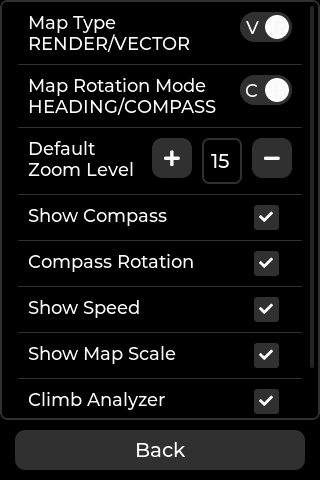
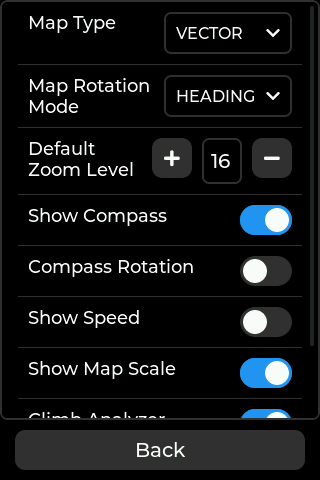
feat(gui): map type and rotation as dropdowns, accent color on switches

diff --git a/lib/gui/src/mapSettingsScr.cpp b/lib/gui/src/mapSettingsScr.cpp
@@ -67,7 +67,7 @@ static void mapSettingsEvents(lv_event_t *event)
 
     if (obj == mapType)
     {
-        mapSet.vectorMap = lv_obj_has_state(obj, LV_STATE_CHECKED);
+        mapSet.vectorMap = lv_dropdown_get_selected(obj) == 1;
         minZoom = 6;
         maxZoom = 17;
         lv_spinbox_set_range(zoomLevel, minZoom, maxZoom);
@@ -79,7 +79,7 @@ static void mapSettingsEvents(lv_event_t *event)
 
     if (obj == mapSwitch)
     {
-        mapSet.mapRotationComp = lv_obj_has_state(obj, LV_STATE_CHECKED);
+        mapSet.mapRotationComp = lv_dropdown_get_selected(obj) == 1;
         cfg.saveBool(PKEYS::KMAP_ROT_MODE, mapSet.mapRotationComp);
     }
 
@@ -156,34 +156,46 @@ void createMapSettingsScr()
     lv_obj_set_size(mapSettingsOptions, TFT_WIDTH, TFT_HEIGHT - 60);
     lv_obj_t *label;
     // Map Type
-    list = lv_list_add_button(mapSettingsOptions, NULL, "Map Type\nRENDER/VECTOR");
+    list = lv_list_add_button(mapSettingsOptions, NULL, "Map Type");
     lv_obj_remove_flag(list, LV_OBJ_FLAG_CLICKABLE);
     lv_obj_set_align(list, LV_ALIGN_LEFT_MID);
     lv_obj_set_style_text_font(list, fontOptions, 0);
-    mapType = lv_switch_create(list);
-    label = lv_label_create(mapType);
-    lv_label_set_text_static(label, "V   R");
-    lv_obj_center(label);
-    if (mapSet.vectorMap)
-        lv_obj_add_state(mapType, LV_STATE_CHECKED);
-    else
-        lv_obj_remove_state(mapType, LV_STATE_CHECKED);
+    mapType = lv_dropdown_create(list);
+    lv_dropdown_set_options(mapType, "PNG\nVECTOR");
+    lv_dropdown_set_selected(mapType, mapSet.vectorMap ? 1 : 0);
+    lv_obj_t *item = lv_dropdown_get_list(mapType);
+    lv_obj_set_style_bg_color(item, lv_color_hex(objectColor), LV_PART_SELECTED | LV_STATE_CHECKED);
     lv_obj_align_to(mapType, list, LV_ALIGN_RIGHT_MID, 0, 0);
+#if defined(LARGE_SCREEN) && !defined(EXTRA_LARGE_SCREEN) && !defined(T4_S3)
+    lv_obj_set_width(mapType, TFT_WIDTH * 2 / 5);
+    lv_obj_set_style_text_font(mapType, fontMedium, 0);
+    lv_obj_set_style_text_font(item, fontMedium, 0);
+#else
+    lv_obj_set_width(mapType, TFT_WIDTH / 3);
+#endif
     lv_obj_add_event_cb(mapType, mapSettingsEvents, LV_EVENT_VALUE_CHANGED, NULL);
     // Map Rotation
-    list = lv_list_add_button(mapSettingsOptions, NULL, "Map Rotation Mode\nHEADING/COMPASS");
+#if defined(LARGE_SCREEN) && !defined(EXTRA_LARGE_SCREEN) && !defined(T4_S3)
+    list = lv_list_add_button(mapSettingsOptions, NULL, "Map Rotation\nMode");
+#else
+    list = lv_list_add_button(mapSettingsOptions, NULL, "Map Rotation Mode");
+#endif
     lv_obj_remove_flag(list, LV_OBJ_FLAG_CLICKABLE);
     lv_obj_set_align(list, LV_ALIGN_LEFT_MID);
     lv_obj_set_style_text_font(list, fontOptions, 0);
-    mapSwitch = lv_switch_create(list);
-    label = lv_label_create(mapSwitch);
-    lv_label_set_text_static(label, "C   H");
-    lv_obj_center(label);
-    if (mapSet.mapRotationComp)
-        lv_obj_add_state(mapSwitch, LV_STATE_CHECKED);
-    else
-        lv_obj_remove_state(mapSwitch, LV_STATE_CHECKED);
+    mapSwitch = lv_dropdown_create(list);
+    lv_dropdown_set_options(mapSwitch, "HEADING\nCOMPASS");
+    lv_dropdown_set_selected(mapSwitch, mapSet.mapRotationComp ? 1 : 0);
+    item = lv_dropdown_get_list(mapSwitch);
+    lv_obj_set_style_bg_color(item, lv_color_hex(objectColor), LV_PART_SELECTED | LV_STATE_CHECKED);
     lv_obj_align_to(mapSwitch, list, LV_ALIGN_RIGHT_MID, 0, 0);
+#if defined(LARGE_SCREEN) && !defined(EXTRA_LARGE_SCREEN) && !defined(T4_S3)
+    lv_obj_set_width(mapSwitch, TFT_WIDTH * 2 / 5);
+    lv_obj_set_style_text_font(mapSwitch, fontMedium, 0);
+    lv_obj_set_style_text_font(item, fontMedium, 0);
+#else
+    lv_obj_set_width(mapSwitch, TFT_WIDTH / 3);
+#endif
     lv_obj_add_event_cb(mapSwitch, mapSettingsEvents, LV_EVENT_VALUE_CHANGED, NULL);
     // Default zoom level
     list = lv_list_add_button(mapSettingsOptions, NULL, "Default\nZoom Level");
@@ -214,9 +226,8 @@ void createMapSettingsScr()
     lv_obj_set_style_text_font(list, fontOptions, 0);
     lv_obj_remove_flag(list, LV_OBJ_FLAG_CLICKABLE);
     lv_obj_set_align(list, LV_ALIGN_LEFT_MID);
-    checkCompass = lv_checkbox_create(list);
-    lv_obj_align_to(checkCompass, list, LV_ALIGN_RIGHT_MID, 0, 0);
-    lv_checkbox_set_text(checkCompass, " ");
+    checkCompass = lv_switch_create(list);
+    lv_obj_align_to(checkCompass, list, LV_ALIGN_OUT_RIGHT_MID, 0, 0);
     if (mapSet.showMapCompass)
         lv_obj_add_state(checkCompass, LV_STATE_CHECKED);
     else
@@ -227,9 +238,8 @@ void createMapSettingsScr()
     lv_obj_set_style_text_font(list, fontOptions, 0);
     lv_obj_remove_flag(list, LV_OBJ_FLAG_CLICKABLE);
     lv_obj_set_align(list, LV_ALIGN_LEFT_MID);
-    checkCompassRot = lv_checkbox_create(list);
-    lv_obj_align_to(checkCompassRot, list, LV_ALIGN_RIGHT_MID, 0, 0);
-    lv_checkbox_set_text(checkCompassRot, " ");
+    checkCompassRot = lv_switch_create(list);
+    lv_obj_align_to(checkCompassRot, list, LV_ALIGN_OUT_RIGHT_MID, 0, 0);
     if (mapSet.compassRotation)
         lv_obj_add_state(checkCompassRot, LV_STATE_CHECKED);
     else
@@ -240,9 +250,8 @@ void createMapSettingsScr()
     lv_obj_set_style_text_font(list, fontOptions, 0);
     lv_obj_remove_flag(list, LV_OBJ_FLAG_CLICKABLE);
     lv_obj_set_align(list, LV_ALIGN_LEFT_MID);
-    checkSpeed = lv_checkbox_create(list);
-    lv_obj_align_to(checkSpeed, list, LV_ALIGN_RIGHT_MID, 0, 0);
-    lv_checkbox_set_text(checkSpeed, " ");
+    checkSpeed = lv_switch_create(list);
+    lv_obj_align_to(checkSpeed, list, LV_ALIGN_OUT_RIGHT_MID, 0, 0);
     if (mapSet.showMapSpeed)
         lv_obj_add_state(checkSpeed, LV_STATE_CHECKED);
     else
@@ -253,9 +262,8 @@ void createMapSettingsScr()
     lv_obj_set_style_text_font(list, fontOptions, 0);
     lv_obj_remove_flag(list, LV_OBJ_FLAG_CLICKABLE);
     lv_obj_set_align(list, LV_ALIGN_LEFT_MID);
-    checkScale = lv_checkbox_create(list);
-    lv_obj_align_to(checkScale, list, LV_ALIGN_RIGHT_MID, 0, 0);
-    lv_checkbox_set_text(checkScale, " ");
+    checkScale = lv_switch_create(list);
+    lv_obj_align_to(checkScale, list, LV_ALIGN_OUT_RIGHT_MID, 0, 0);
     if (mapSet.showMapScale)
         lv_obj_add_state(checkScale, LV_STATE_CHECKED);
     else
@@ -266,9 +274,8 @@ void createMapSettingsScr()
     lv_obj_set_style_text_font(list, fontOptions, 0);
     lv_obj_remove_flag(list, LV_OBJ_FLAG_CLICKABLE);
     lv_obj_set_align(list, LV_ALIGN_LEFT_MID);
-    checkClimb = lv_checkbox_create(list);
-    lv_obj_align_to(checkClimb, list, LV_ALIGN_RIGHT_MID, 0, 0);
-    lv_checkbox_set_text(checkClimb, " ");
+    checkClimb = lv_switch_create(list);
+    lv_obj_align_to(checkClimb, list, LV_ALIGN_OUT_RIGHT_MID, 0, 0);
     if (mapSet.showClimb)
         lv_obj_add_state(checkClimb, LV_STATE_CHECKED);
     else
@@ -279,9 +286,8 @@ void createMapSettingsScr()
     lv_obj_set_style_text_font(list3DMap, fontOptions, 0);
     lv_obj_remove_flag(list3DMap, LV_OBJ_FLAG_CLICKABLE);
     lv_obj_set_align(list3DMap, LV_ALIGN_LEFT_MID);
-    check3DMap = lv_checkbox_create(list3DMap);
-    lv_obj_align_to(check3DMap, list3DMap, LV_ALIGN_RIGHT_MID, 0, 0);
-    lv_checkbox_set_text(check3DMap, " ");
+    check3DMap = lv_switch_create(list3DMap);
+    lv_obj_align_to(check3DMap, list3DMap, LV_ALIGN_OUT_RIGHT_MID, 0, 0);
     if (mapSet.map3D)
         lv_obj_add_state(check3DMap, LV_STATE_CHECKED);
     else

diff --git a/lib/lvgl/src/lvglSetup.cpp b/lib/lvgl/src/lvglSetup.cpp
@@ -33,7 +33,7 @@ lv_obj_t *searchSatScreen; /**< Search Satellite Screen object. */
 lv_obj_t *splashScr;       /**< Splash Screen object. */
 lv_style_t styleThemeBkg;  /**< Main background style object. */
 lv_style_t styleObjectBkg; /**< Object background style. */
-lv_style_t styleObjectSel; /**< Object selected style. */
+lv_style_t styleAccent;    /**< Accent color style for checked states. */
 
 lv_group_t *scrGroup;   /**< LVGL group for screen. */
 lv_group_t *keyGroup;   /**< LVGL group for GPIO keys. */
@@ -429,12 +429,8 @@ void applyModifyTheme(lv_theme_t *th, lv_obj_t *obj)
         if (lv_obj_check_type(obj, &lv_switch_class))
         {
             lv_obj_add_style(obj, &styleObjectBkg, 0);
-            lv_obj_add_style(obj, &styleObjectBkg, LV_PART_INDICATOR | LV_STATE_CHECKED);
-        }
-        if (lv_obj_check_type(obj, &lv_checkbox_class))
-        {
-            lv_obj_add_style(obj, &styleThemeBkg, LV_PART_INDICATOR | LV_STATE_DEFAULT);
-            lv_obj_add_style(obj, &styleObjectBkg, LV_PART_INDICATOR | LV_STATE_CHECKED);
+            lv_obj_add_style(obj, &styleAccent, LV_PART_MAIN | LV_STATE_CHECKED);
+            lv_obj_add_style(obj, &styleAccent, LV_PART_INDICATOR | LV_STATE_CHECKED);
         }
     }
 }
@@ -442,7 +438,7 @@ void applyModifyTheme(lv_theme_t *th, lv_obj_t *obj)
 /**
  * @brief Apply Custom Dark theme styles to the given object.
  *
- * @details Assigns custom styles to various LVGL objects (button, switch, checkbox, etc.)
+ * @details Assigns custom styles to various LVGL objects (button, switch, etc.)
  *
  * @param th  Pointer to the LVGL theme (unused).
  * @param obj Pointer to the LVGL object to style.
@@ -456,8 +452,9 @@ void modifyTheme()
     lv_style_init(&styleObjectBkg);
     lv_style_set_bg_color(&styleObjectBkg, lv_color_hex(objectColor));
     lv_style_set_border_color(&styleObjectBkg, lv_color_hex(objectColor));
-    lv_style_init(&styleObjectSel);
-    lv_style_set_bg_color(&styleObjectSel, lv_color_hex(0x757575));
+    lv_style_init(&styleAccent);
+    lv_style_set_bg_color(&styleAccent, lv_color_hex(accentColor));
+    lv_style_set_border_color(&styleAccent, lv_color_hex(accentColor));
     
     /*Initialize the new theme from the current theme*/
     lv_theme_t *th_act = lv_display_get_theme(NULL);

diff --git a/lib/gui/src/mapSettingsScr.hpp b/lib/gui/src/mapSettingsScr.hpp
@@ -10,6 +10,7 @@
 
 #include "globalGuiDef.h"
 #include "lvglFuncs.hpp"
+#include "lvglSetup.hpp"
 #include "settings.hpp"
 #include "maps.hpp"
 
@@ -21,13 +22,12 @@ static lv_obj_t *btnBack;              /**< Back button object in map settings. 
 static lv_obj_t *zoomBtnUp;            /**< Zoom level increment button object. */
 static lv_obj_t *zoomBtnDown;          /**< Zoom level decrement button object. */
 static lv_obj_t *list;                 /**< List object for settings options. */
-static lv_obj_t *checkCompass;         /**< Checkbox for enabling compass display. */
-static lv_obj_t *checkCompassRot;      /**< Checkbox for enabling compass rotation. */
-static lv_obj_t *checkSpeed;           /**< Checkbox for displaying speed on the map. */
-static lv_obj_t *checkScale;           /**< Checkbox for displaying map scale. */
-static lv_obj_t *checkFullScreen;      /**< Checkbox for enabling fullscreen map display. */
-static lv_obj_t *checkClimb;           /**< Checkbox for displaying Climb Analyzer */
-static lv_obj_t *check3DMap;           /**< Checkbox for enabling 3D perspective view (vector only) */
+static lv_obj_t *checkCompass;         /**< Switch for enabling compass display. */
+static lv_obj_t *checkCompassRot;      /**< Switch for enabling compass rotation. */
+static lv_obj_t *checkSpeed;           /**< Switch for displaying speed on the map. */
+static lv_obj_t *checkScale;           /**< Switch for displaying map scale. */
+static lv_obj_t *checkClimb;           /**< Switch for displaying Climb Analyzer */
+static lv_obj_t *check3DMap;           /**< Switch for enabling 3D perspective view (vector only) */
 static lv_obj_t *list3DMap;            /**< List row container for the 3D Map option */
 
 

diff --git a/lib/lvgl/src/lvglSetup.hpp b/lib/lvgl/src/lvglSetup.hpp
@@ -30,6 +30,7 @@
 
 inline constexpr uint32_t objectColor = 0x303030;
  /**< Default display driver color definition. */
+inline constexpr uint32_t accentColor = 0x2196F3;
 
 void displayFlush(lv_display_t *disp, const lv_area_t *area, uint8_t *px_map);
 void displayFlushWait(lv_display_t *disp);
